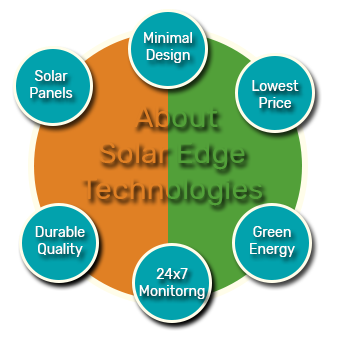
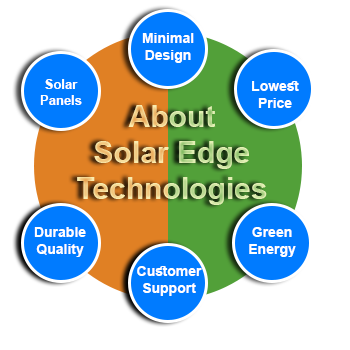
Landscape

diff --git a/index.html b/index.html
@@ -83,7 +83,7 @@
       <div class="col-12 col-md-12 col-lg-4 col-xl-4 about_content">
         <div class="text-center potrait">
         	<center>
-  			<img src="images/circle2.png" class="rounded" alt="circle_info">
+  			<img src="images/circle.png" class="rounded" alt="circle_info">
   			</center>
 		</div>
       </div>
